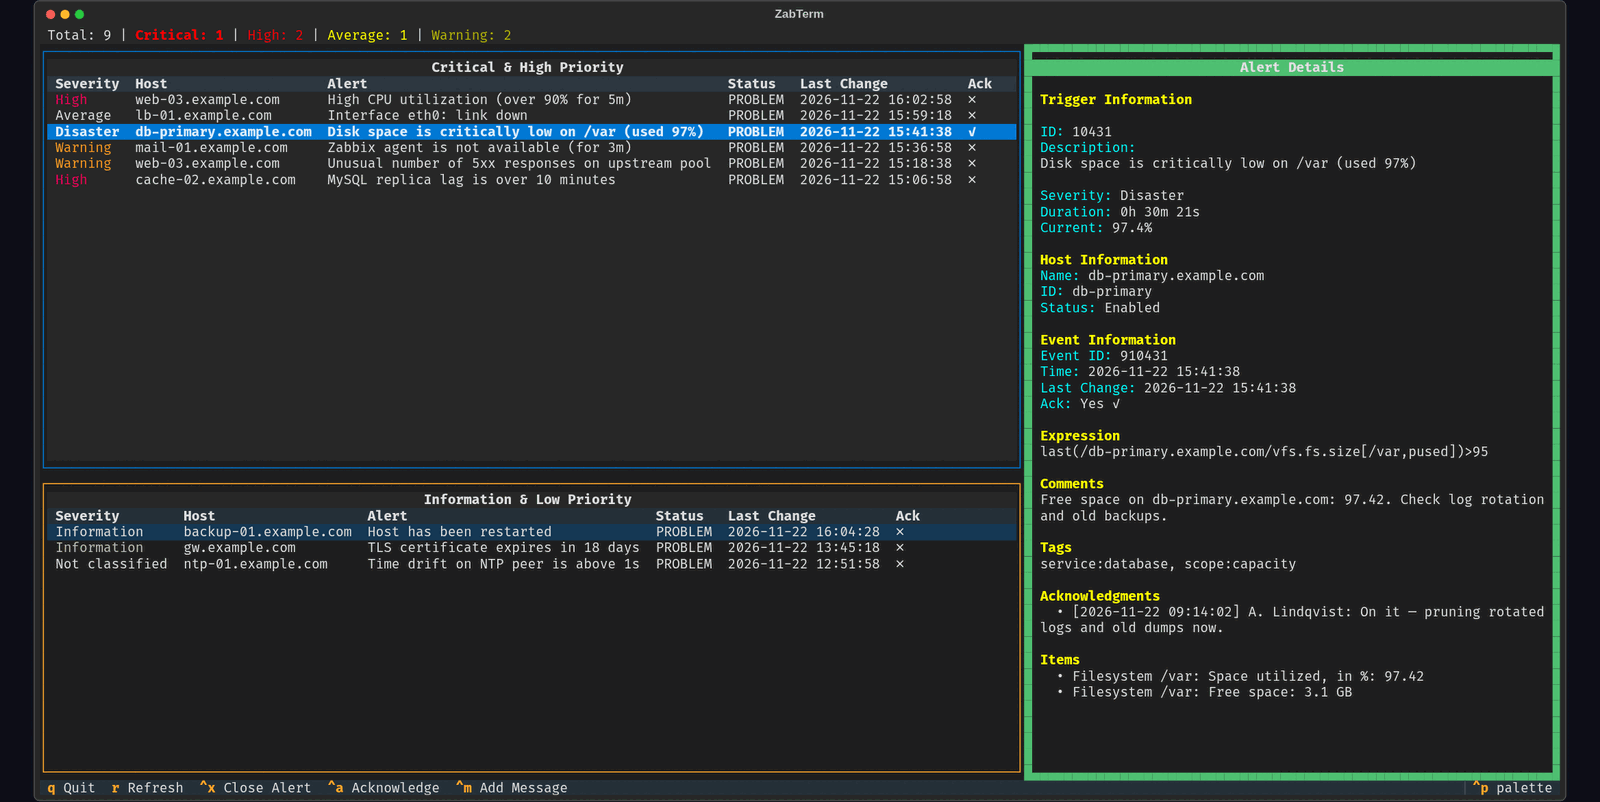
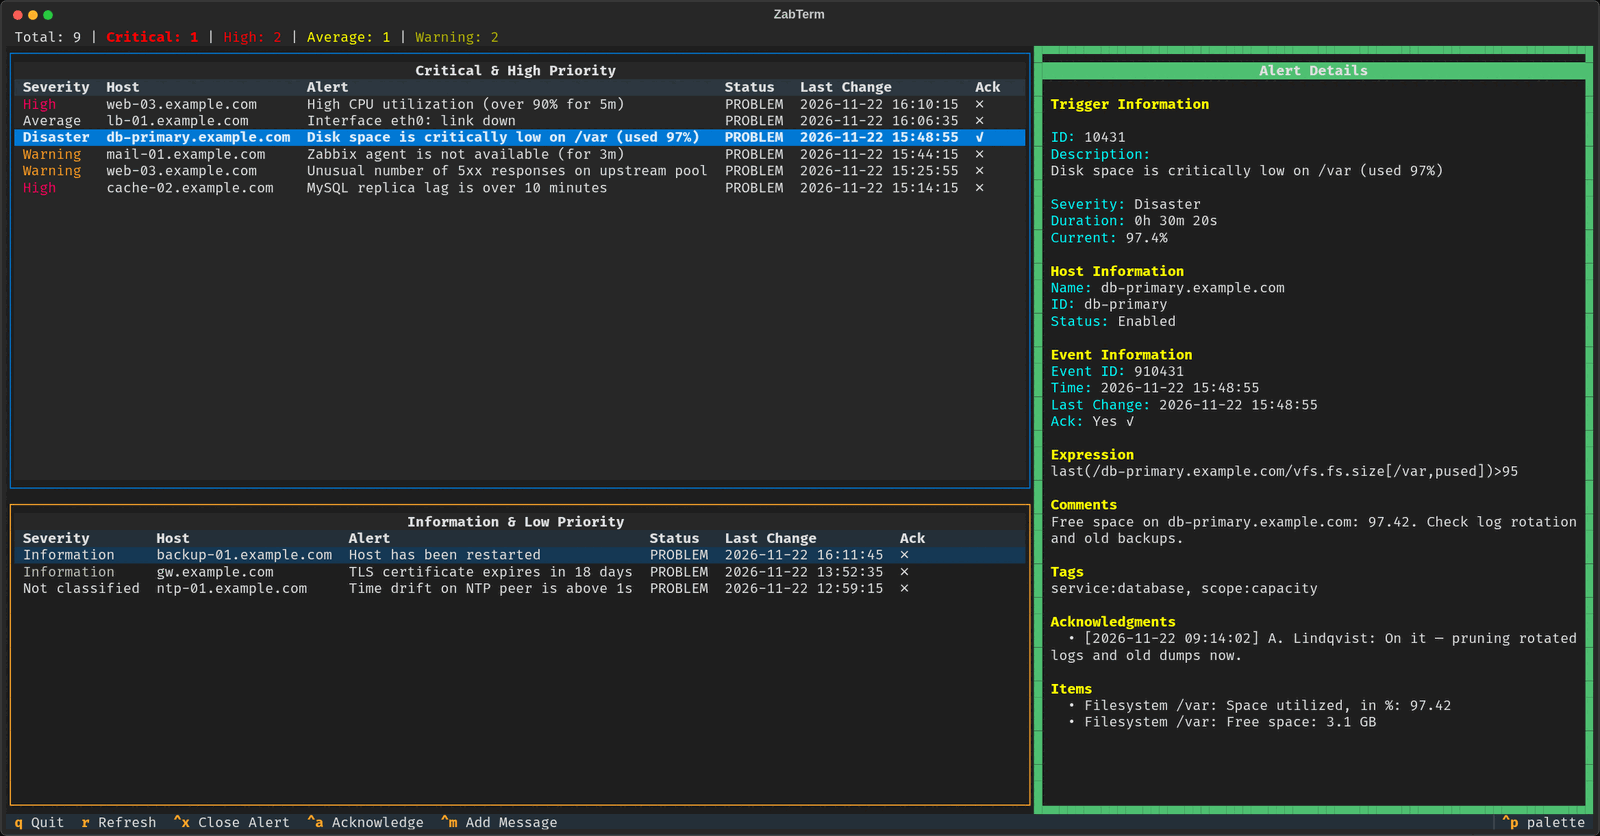
Add reproducible screenshot generator
docs/make_screenshot.py renders the README screenshot headlessly with a
stubbed Zabbix API and fictional fixtures, so the image can be updated
without exposing a real server or alerts.

Changed region(s): [[0.0, 0.0, 1.0, 1.0], [0.7812, 0.0623, 0.875, 0.0935], [0.4688, 0.0, 0.5, 0.0312]]

diff --git a/docs/make_screenshot.py b/docs/make_screenshot.py
@@ -1,0 +1,362 @@
+#!/usr/bin/env python3
+"""Regenerate docs/screenshot.png with fictional demo data.
+
+The app expects a live Zabbix server, so this renders it headlessly with a
+stubbed API client. Run from anywhere:
+
+    uv run --with "textual>=8" --with httpx python docs/make_screenshot.py
+
+Rasterizing prefers headless Chromium (best whitespace and font handling) and
+falls back to rsvg-convert. ImageMagick is used, when present, to scale the
+result down to a reasonable README width.
+"""
+
+from __future__ import annotations
+
+import asyncio
+import re
+import shutil
+import subprocess
+import sys
+import tempfile
+import time
+from pathlib import Path
+
+REPO_ROOT = Path(__file__).resolve().parent.parent
+sys.path.insert(0, str(REPO_ROOT))
+
+import zabterm
+from zabterm import ZabTerm
+
+OUTPUT = REPO_ROOT / "docs" / "screenshot.png"
+WIDTH = 1600
+NOW = int(time.time())
+
+
+def trigger(
+    triggerid,
+    priority,
+    host_name,
+    host_id,
+    description,
+    expression,
+    *,
+    age=600,
+    ack=False,
+    opdata="",
+    comments="",
+    tags=(),
+    items=(),
+    acknowledges=(),
+):
+    return {
+        "triggerid": triggerid,
+        "priority": str(priority),
+        "description": description,
+        "expression": expression,
+        "lastchange": str(NOW - age),
+        "comments": comments,
+        "hosts": [
+            {"hostid": host_id, "host": host_id, "name": host_name, "status": "0"}
+        ],
+        "lastEvent": [
+            {
+                "eventid": f"9{triggerid}",
+                "clock": str(NOW - age),
+                "acknowledged": "1" if ack else "0",
+                "opdata": opdata,
+            }
+        ],
+        "items": [
+            {"itemid": str(1000 + i), "name": n, "key_": k, "lastvalue": v}
+            for i, (n, k, v) in enumerate(items)
+        ],
+        "tags": [{"tag": t, "value": v} for t, v in tags],
+        "_acknowledges": list(acknowledges),
+    }
+
+
+TRIGGERS = [
+    trigger(
+        "10431",
+        5,
+        "db-primary.example.com",
+        "db-primary",
+        "Disk space is critically low on /var (used 97%)",
+        "last(/db-primary.example.com/vfs.fs.size[/var,pused])>95",
+        age=1820,
+        opdata="97 %",
+        comments="Free space on {HOST.NAME}: {ITEM.LASTVALUE1}. Check log rotation and old backups.",
+        tags=[("service", "database"), ("scope", "capacity")],
+        items=[
+            (
+                "Filesystem /var: Space utilized, in %",
+                "vfs.fs.size[/var,pused]",
+                "97.42",
+            ),
+            ("Filesystem /var: Free space", "vfs.fs.size[/var,free]", "3.1 GB"),
+        ],
+        acknowledges=(
+            (
+                "2026-11-22 09:14:02",
+                "A. Lindqvist",
+                "On it — pruning rotated logs and old dumps now.",
+            ),
+        ),
+        ack=True,
+    ),
+    trigger(
+        "10428",
+        4,
+        "web-03.example.com",
+        "web-03",
+        "High CPU utilization (over 90% for 5m)",
+        "min(/web-03.example.com/system.cpu.util,5m)>90",
+        age=540,
+        opdata="94.2 %",
+        comments="Sustained CPU pressure on {HOST.NAME}.",
+        tags=[("service", "web"), ("scope", "performance")],
+        items=[
+            ("CPU utilization", "system.cpu.util", "94.2"),
+            ("Load average (1m)", "system.cpu.load[avg1]", "12.87"),
+        ],
+    ),
+    trigger(
+        "10425",
+        4,
+        "cache-02.example.com",
+        "cache-02",
+        "MySQL replica lag is over 10 minutes",
+        "last(/cache-02.example.com/mysql.slave.lag)>600",
+        age=3900,
+        opdata="42m 17s",
+        comments="Replica {HOST.NAME} is far behind primaries.",
+        tags=[("service", "mysql"), ("scope", "replication")],
+        items=[("Replication lag", "mysql.slave.lag", "2537")],
+    ),
+    trigger(
+        "10419",
+        3,
+        "lb-01.example.com",
+        "lb-01",
+        "Interface eth0: link down",
+        "last(/lb-01.example.com/net.if.status[eth0])=2",
+        age=760,
+        tags=[("service", "network")],
+    ),
+    trigger(
+        "10412",
+        2,
+        "mail-01.example.com",
+        "mail-01",
+        "Zabbix agent is not available (for 3m)",
+        "nodata(/mail-01.example.com/agent.ping,3m)=1",
+        age=2100,
+        tags=[("class", "os")],
+    ),
+    trigger(
+        "10407",
+        2,
+        "web-03.example.com",
+        "web-03",
+        "Unusual number of 5xx responses on upstream pool",
+        "last(/web-03.example.com/web.errors.5xx.rate)>25",
+        age=3200,
+        opdata="31 req/s",
+        tags=[("service", "web")],
+    ),
+    trigger(
+        "10398",
+        1,
+        "backup-01.example.com",
+        "backup-01",
+        "Host has been restarted",
+        "last(/backup-01.example.com/system.uptime)<600",
+        age=450,
+        tags=[("class", "os")],
+    ),
+    trigger(
+        "10392",
+        1,
+        "gw.example.com",
+        "gw",
+        "TLS certificate expires in 18 days",
+        "last(/gw.example.com/web.cert.remaining)<21",
+        age=8800,
+        opdata="18 d",
+        tags=[("service", "tls")],
+    ),
+    trigger(
+        "10385",
+        0,
+        "ntp-01.example.com",
+        "ntp-01",
+        "Time drift on NTP peer is above 1s",
+        "last(/ntp-01.example.com/ntp.drift)>1000",
+        age=12000,
+        tags=[("class", "time")],
+    ),
+]
+
+MACROS = {
+    "{$CPU_UTIL_MAX}": "90",
+    "{$DISK_USAGE_MAX}": "95",
+    "{$MYSQL_REPL_LAG_MAX}": "600",
+}
+
+CONFIG = """\
+[zabbix]
+url = https://zabbix.example.com
+api_key = fake-api-key
+
+verify_ssl = true
+refresh_interval = 30
+
+[display]
+max_alerts = 100
+sort_by = lastchange
+show_acknowledged = true
+severity_filter = 0
+
+[notifications]
+enable = false
+"""
+
+
+class FakeZabbix:
+    """Stand-in for ZabbixAPI that serves the fixtures above, read-only."""
+
+    def __init__(self, *args, **kwargs):
+        pass
+
+    async def login(self):
+        return None
+
+    async def get_triggers(self, *args, **kwargs):
+        return TRIGGERS
+
+    async def get_user_macros(self, hostids=None):
+        return MACROS
+
+    async def get_event_acknowledges(self, eventid):
+        for trig in TRIGGERS:
+            if str(trig["lastEvent"][0]["eventid"]) == str(eventid):
+                return [
+                    {
+                        "clock": str(
+                            int(time.mktime(time.strptime(clock, "%Y-%m-%d %H:%M:%S")))
+                        ),
+                        "name": user,
+                        "message": message,
+                    }
+                    for clock, user, message in trig.get("_acknowledges", [])
+                ]
+        return []
+
+    async def _request(self, method, params=None):
+        if method == "host.get":
+            return [{"hostid": "10101", "parentTemplates": [{"templateid": "20001"}]}]
+        return []
+
+
+async def render_svg(svg_path: Path, config_path: Path) -> None:
+    # Keep the default theme so the screenshot does not depend on wallust.
+    zabterm.load_wallust_theme = lambda: None
+    zabterm.ZabbixAPI = FakeZabbix
+
+    app = ZabTerm(str(config_path))
+    async with app.run_test(size=(190, 48)) as pilot:
+        # Wait for the initial fetch to populate both tables.
+        for _ in range(10):
+            await pilot.pause()
+        table = app.query_one("#critical-table")
+        table.focus()
+        table.move_cursor(row=2)  # Show the acknowledged Disaster alert.
+        for _ in range(10):
+            await pilot.pause()
+
+        app.save_screenshot(str(svg_path))
+
+
+def view_box(svg: str) -> tuple[int, int]:
+    """Return the screenshot's natural pixel size."""
+    match = re.search(r'viewBox="0 0 ([\d.]+) ([\d.]+)"', svg)
+    if not match:
+        raise SystemExit("Unexpected screenshot SVG: no viewBox")
+    return (round(float(match.group(1))), round(float(match.group(2))))
+
+
+def rasterize(svg_path: Path, png_path: Path) -> None:
+    svg = svg_path.read_text()
+    width, height = view_box(svg)
+
+    with tempfile.TemporaryDirectory() as tmp:
+        tmp_dir = Path(tmp)
+        html = tmp_dir / "shot.html"
+        html.write_text(
+            "<!doctype html><html><head><meta charset='utf-8'><style>"
+            "html,body{margin:0;padding:0;background:#000}"
+            f"svg{{display:block;width:{width}px}}"
+            "</style></head><body>"
+            f"{svg}</body></html>"
+        )
+
+        chromium = shutil.which("chromium") or shutil.which("google-chrome")
+        if chromium:
+            subprocess.run(
+                [
+                    chromium,
+                    "--headless",
+                    "--no-sandbox",
+                    "--disable-gpu",
+                    "--hide-scrollbars",
+                    "--force-device-scale-factor=1",
+                    f"--window-size={width},{height}",
+                    f"--screenshot={png_path}",
+                    str(html),
+                ],
+                check=True,
+                capture_output=True,
+            )
+        elif shutil.which("rsvg-convert"):
+            subprocess.run(
+                ["rsvg-convert", "-w", str(WIDTH), str(svg_path), "-o", str(png_path)],
+                check=True,
+            )
+        else:
+            raise SystemExit(
+                "Need chromium or rsvg-convert to rasterize the screenshot "
+                "(ImageMagick is optional, for scaling)"
+            )
+
+    if shutil.which("magick"):
+        subprocess.run(
+            [
+                "magick",
+                str(png_path),
+                "-resize",
+                f"{WIDTH}x",
+                "-colors",
+                "192",
+                "-strip",
+                str(png_path),
+            ],
+            check=True,
+        )
+
+
+async def main() -> None:
+    OUTPUT.parent.mkdir(parents=True, exist_ok=True)
+    with tempfile.TemporaryDirectory() as tmp:
+        config_path = Path(tmp) / "config.ini"
+        config_path.write_text(CONFIG)
+        svg_path = Path(tmp) / "screenshot.svg"
+
+        await render_svg(svg_path, config_path)
+        rasterize(svg_path, OUTPUT)
+
+    print(f"wrote {OUTPUT.relative_to(REPO_ROOT)}")
+
+
+if __name__ == "__main__":
+    asyncio.run(main())
